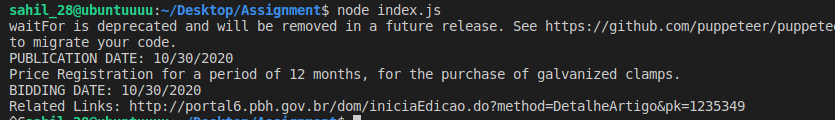
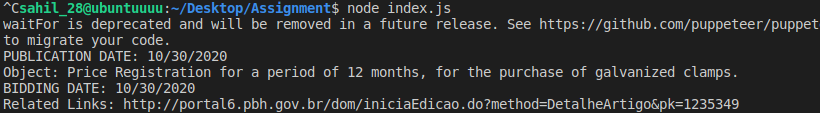
Final

Changed region(s): [[0.0, 0.292, 0.9146, 1.0], [0.0, 0.0, 1.0, 0.292]]

diff --git a/index.js b/index.js
@@ -5,12 +5,7 @@ const browser = await puppteer.launch()
 const page = await browser.newPage()
 await page.goto(url)
 
-// const [el] = await page.$x('/html/body/div[2]/div/div[5]/div/div/div/div/div[1]/div/div/div/div[3]/div/div/div/div/div/div[2]/span/span[1]/font/font')
-// const src = await el.getProperty('innerText')
-// const srctxt = await src.jsonValue()
-// console.log({srctxt})
-//await page.waitFor(4000);
-//await page.click('a[title="Ingles"]')
+
 await page.evaluate(() => {
     doGTranslate('pt|en')
   });
@@ -22,7 +17,7 @@ const text6 = await page.evaluate(() => document.querySelectorAll("span.lbl-lici
 
 
 console.log( text1);
-console.log(text2);
+console.log(`Object: ${text2}`);
 console.log(text6);
 
 const [elements ]= await page.$x('//*[@id="block-views-block-view-noticia-pbh-block-5"]/div/div/div/div/div/div[3]/div/table/tbody/tr/td[2]/div/div/div/a')
@@ -34,9 +29,6 @@ console.log(`Related Links: ${imp_link}`)
 
 
 
-
-
- 
 
 
 scrapProduct("https://prefeitura.pbh.gov.br/saude/licitacao/pregao-eletronico-151-2020")
